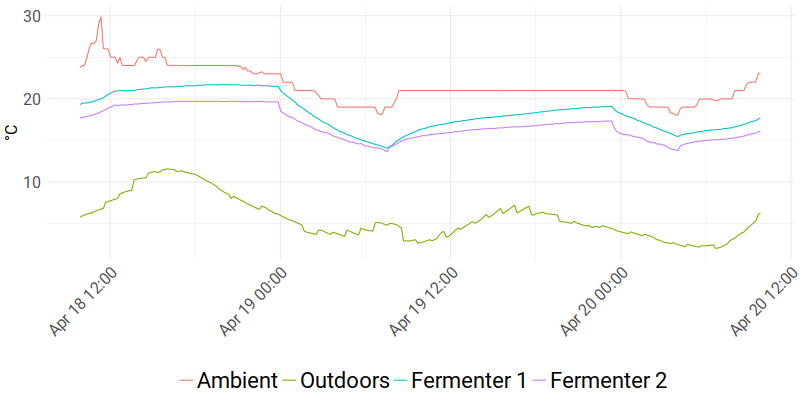
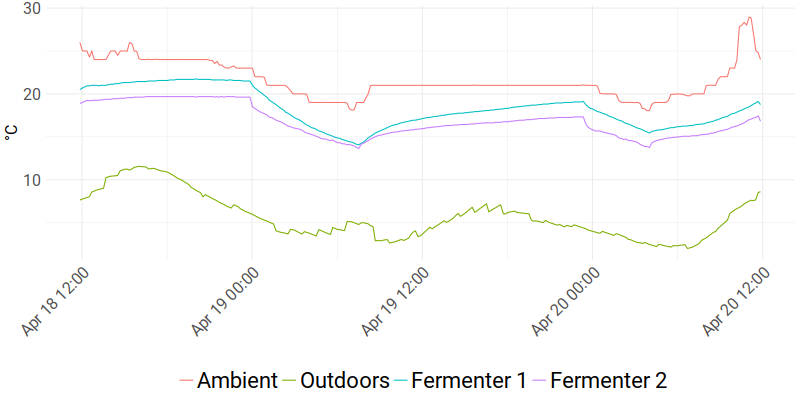
Update live temperature on site

diff --git a/temperature.js b/temperature.js
@@ -1,1 +1,1 @@
-document.write("<h4>Inside Temperature: 23.0°C</h4><h4>Outside Temperature: 6.27°C</h4><h4>Fermenter 1 Temperature: 17.69°C</h4><h4>Fermenter 2 Temperature: 16.13°C</h4><h4>Inside Humidity: 17.06%</h4><h4>Outside Humidity: 53.0%</h4><br>Last update: 2018-04-20 09:50:52");
+document.write("<h4>Inside Temperature: 24.0°C</h4><h4>Outside Temperature: 8.6°C</h4><h4>Fermenter 1 Temperature: 18.75°C</h4><h4>Fermenter 2 Temperature: 16.81°C</h4><h4>Inside Humidity: 17.0%</h4><h4>Outside Humidity: 46.0%</h4><br>Last update: 2018-04-20 11:50:48");
